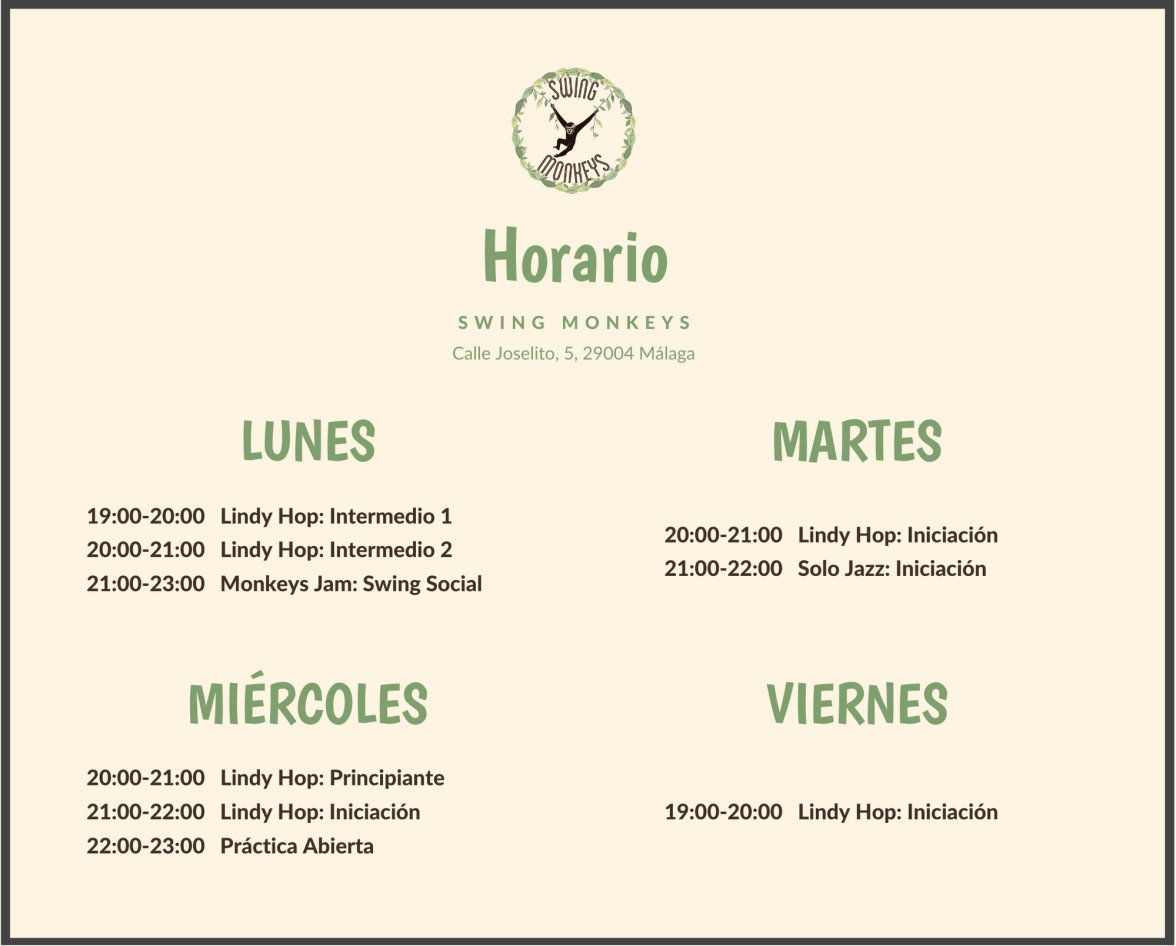
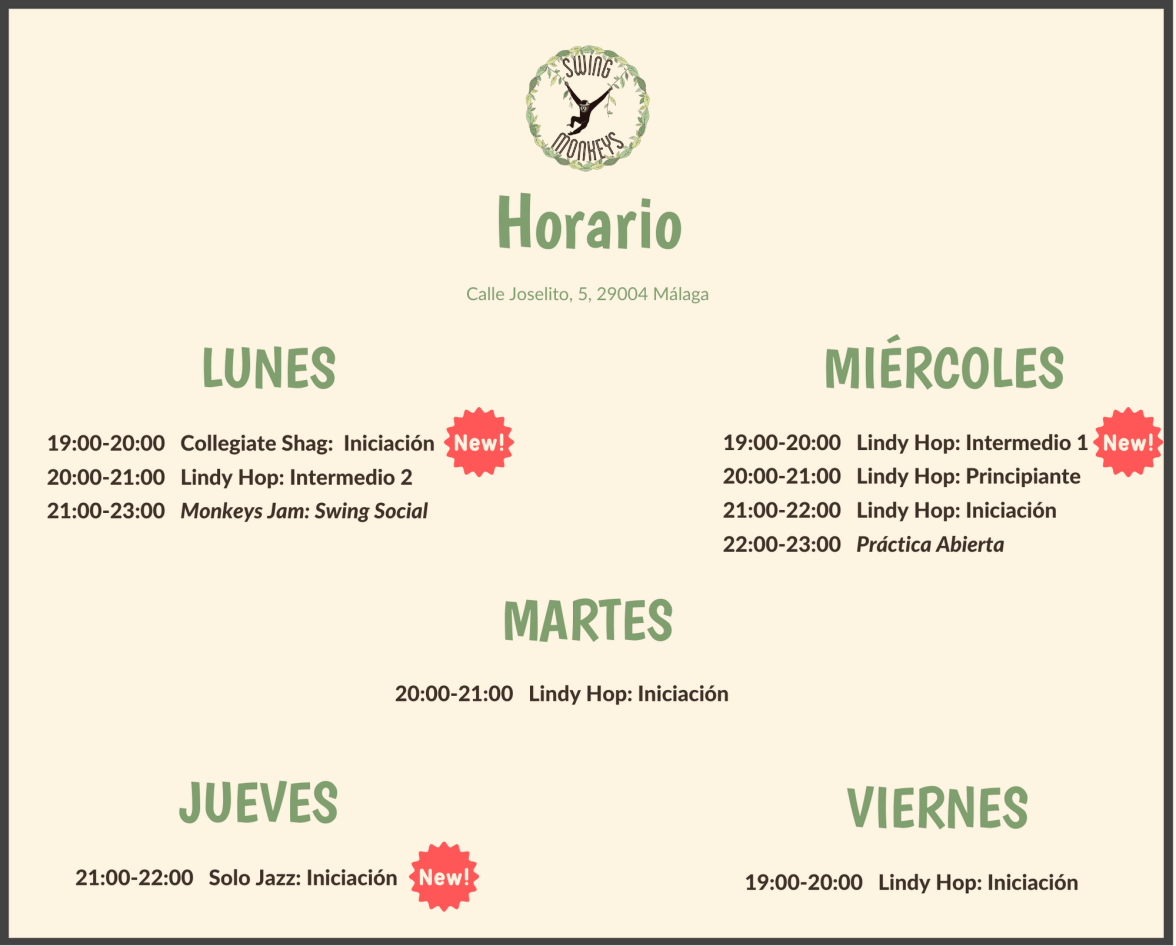
create github pages

diff --git a/contacto.html b/contacto.html
@@ -60,7 +60,7 @@
     </nav>
 </section>
 
-<section class="engine"><a href="https://mobirise.info/g">build a website</a></section><section class="mbr-section form4 cid-rJHVal1sQP" id="form4-5r">
+<section class="engine"><a href="https://mobirise.info/x">free css templates</a></section><section class="mbr-section form4 cid-rJHVal1sQP" id="form4-5r">
 
     
 
@@ -85,7 +85,7 @@
                 </div>
                 <div data-form-type="formoid">
                     <!---Formbuilder Form--->
[2 lines of base64/hex data omitted]
                         <div class="row">
                             <div hidden="hidden" data-form-alert="" class="alert alert-success col-12">¡Gracias por tu interés! Responderemos a tu mensaje en breve. 
 

diff --git a/clases.html b/clases.html
@@ -62,7 +62,7 @@
     </nav>
 </section>
 
-<section class="engine"><a href="https://mobirise.info/z">best css templates</a></section><section class="header7 cid-rEX4OS9dxf" id="header7-5k">
+<section class="engine"><a href="https://mobirise.info/f">simple website creator</a></section><section class="header7 cid-rEX4OS9dxf" id="header7-5k">
 
     
 
@@ -149,7 +149,7 @@
 
     <figure class="mbr-figure container">
         <div class="image-block" style="width: 53%;">
-            <img src="assets/images/horario-swing-monkeys-1176x946.png" alt="Horario de Swing Monkeys - Clases Regulares" title="">
+            <img src="assets/images/horario-invierno-20-1176x946.png" alt="Horario de Swing Monkeys - Clases Regulares" title="">
             
         </div>
     </figure>

diff --git a/nosotros.html b/nosotros.html
@@ -61,7 +61,7 @@
     </nav>
 </section>
 
-<section class="engine"><a href="https://mobirise.info/g">how to build your own website for free</a></section><section class="services3 cid-rsBSXwK2D0" id="services3-44">
+<section class="engine"><a href="https://mobirise.info/c">free website builder</a></section><section class="services3 cid-rsBSXwK2D0" id="services3-44">
     <!---->
     
     <!---->

diff --git a/jara.html b/jara.html
@@ -61,7 +61,7 @@
     </nav>
 </section>
 
-<section class="engine"><a href="https://mobirise.info/i">free site creation software</a></section><section class="features11 cid-rsD7wOyIIO" id="features11-4d">
+<section class="engine"><a href="https://mobirise.info/q">free responsive web templates</a></section><section class="features11 cid-rsD7wOyIIO" id="features11-4d">
 
     
 

diff --git a/jimmy.html b/jimmy.html
@@ -61,7 +61,7 @@
     </nav>
 </section>
 
-<section class="engine"><a href="https://mobirise.info/z">best free css templates</a></section><section class="features11 cid-rsD7wOyIIO" id="features11-4d">
+<section class="engine"><a href="https://mobirise.info/q">free responsive web templates</a></section><section class="features11 cid-rsD7wOyIIO" id="features11-4d">
 
     
 

diff --git a/miguel.html b/miguel.html
@@ -61,7 +61,7 @@
     </nav>
 </section>
 
-<section class="engine"><a href="https://mobirise.info/j">website templates</a></section><section class="features11 cid-rsD7wOyIIO" id="features11-4d">
+<section class="engine"><a href="https://mobirise.info/u">bootstrap responsive templates</a></section><section class="features11 cid-rsD7wOyIIO" id="features11-4d">
 
     
 

diff --git a/index.html b/index.html
@@ -59,7 +59,7 @@
     </nav>
 </section>
 
-<section class="engine"><a href="https://mobirise.info/g">how to build a website for free</a></section><section class="header7 cid-rrMpdJKnDW" id="header7-2w">
+<section class="engine"><a href="https://mobirise.info/z">best free html templates</a></section><section class="header7 cid-rrMpdJKnDW" id="header7-2w">
 
     
 

diff --git a/atenea.html b/atenea.html
@@ -61,7 +61,7 @@
     </nav>
 </section>
 
-<section class="engine"><a href="https://mobirise.info/a">online website builder</a></section><section class="features11 cid-rsD7wOyIIO" id="features11-4d">
+<section class="engine"><a href="https://mobirise.info/c">website builder</a></section><section class="features11 cid-rsD7wOyIIO" id="features11-4d">
 
     
 

diff --git a/media.html b/media.html
@@ -62,7 +62,7 @@
     </nav>
 </section>
 
-<section class="engine"><a href="https://mobirise.info/r">free bootstrap template</a></section><section class="header7 cid-rsBq9iN5ah" id="header7-3z">
+<section class="engine"><a href="https://mobirise.info/h">how to create a web page</a></section><section class="header7 cid-rsBq9iN5ah" id="header7-3z">
 
     
 

diff --git a/ivo-masha.html b/ivo-masha.html
@@ -61,7 +61,7 @@
     </nav>
 </section>
 
-<section class="engine"><a href="https://mobirise.info/k">how to develop free website</a></section><section class="header3 cid-rC8y70rKO5" id="header3-5a">
+<section class="engine"><a href="https://mobirise.info/s">bootstrap themes</a></section><section class="header3 cid-rC8y70rKO5" id="header3-5a">
 
     
 

diff --git a/eventos.html b/eventos.html
@@ -64,7 +64,7 @@
     </nav>
 </section>
 
-<section class="engine"><a href="https://mobirise.info/y">free html web templates</a></section><section class="header3 cid-rIaD1NLOFX" id="header3-5p">
+<section class="engine"><a href="https://mobirise.info/j">website templates</a></section><section class="header3 cid-rIaD1NLOFX" id="header3-5p">
 
     
 

diff --git a/ronda.html b/ronda.html
@@ -59,7 +59,7 @@
     </nav>
 </section>
 
-<section class="engine"><a href="https://mobirise.info/s">bootstrap theme</a></section><section class="header7 cid-rzZcfANzLw" id="header7-55">
+<section class="engine"><a href="https://mobirise.info/s">free bootstrap theme</a></section><section class="header7 cid-rzZcfANzLw" id="header7-55">
 
     
 
